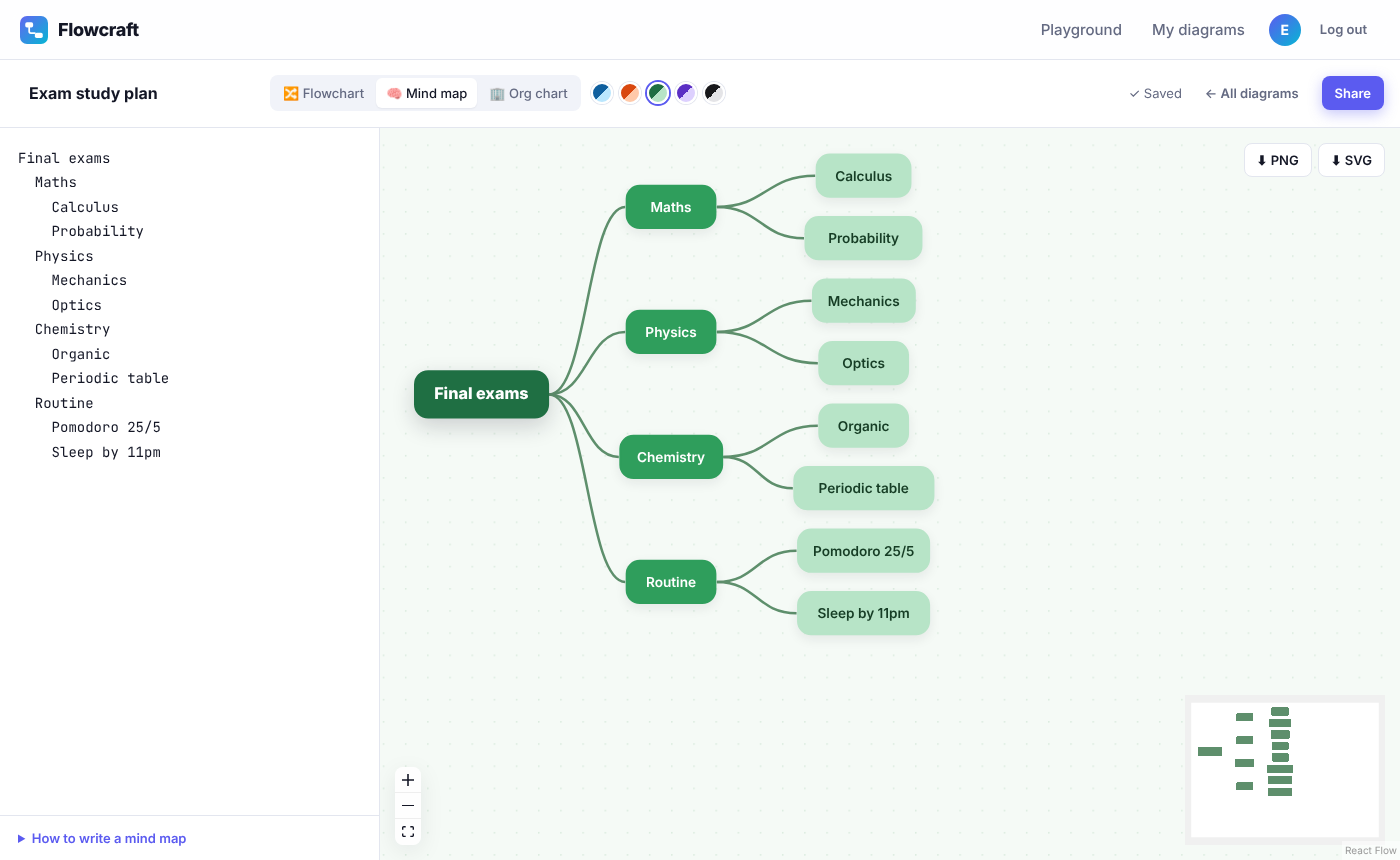
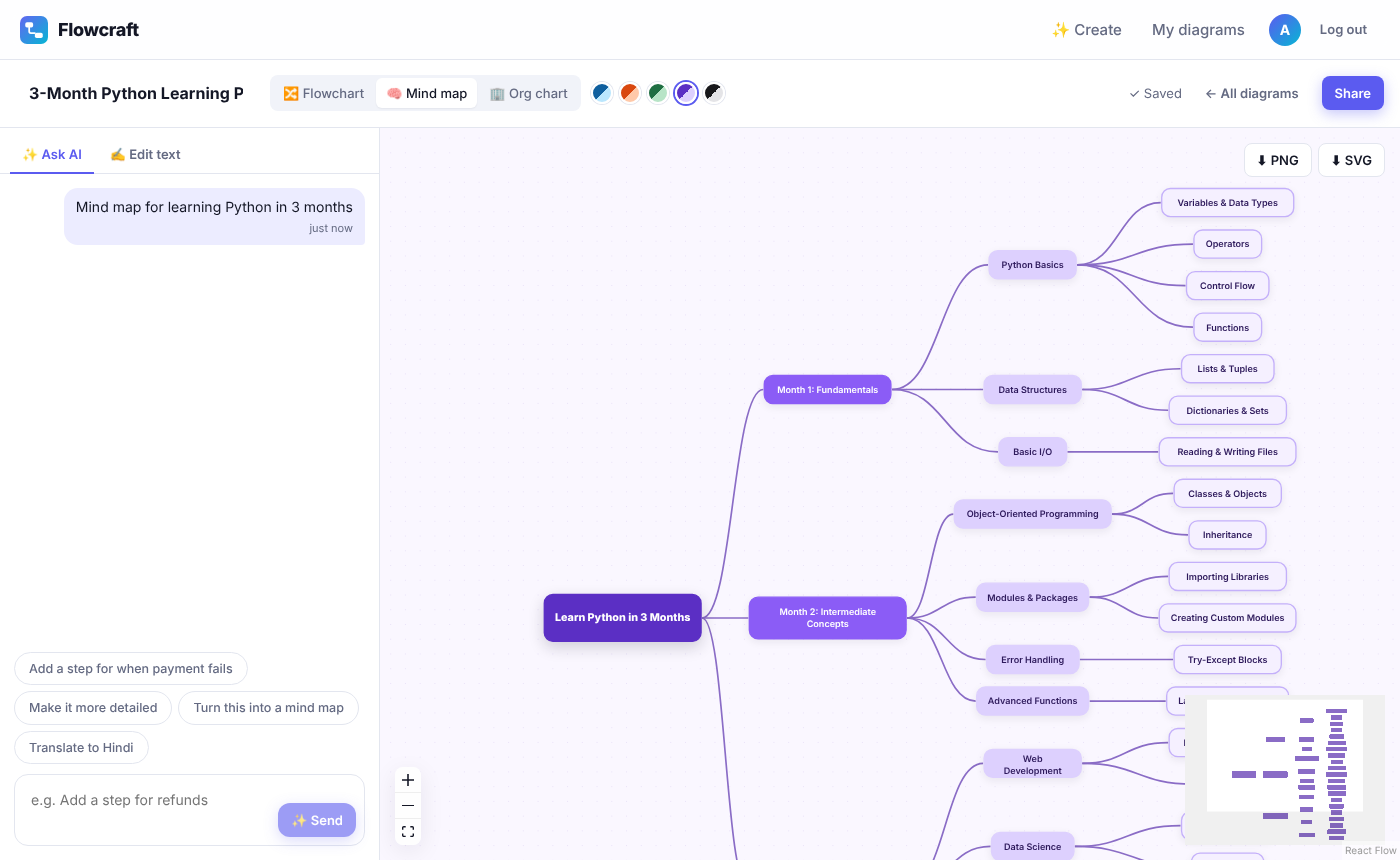
docs: document AI generation, Gemini setup and real-output fixes
Claude-Session: https://claude.ai/code/session_0188cAGwQ35mTrbCMrM6ajGW

diff --git a/README.md b/README.md
@@ -1,15 +1,14 @@
-# Flowcraft — type it, see it, share it
+# Flowcraft — describe it, get a diagram
 
-**Flowcraft turns plain text into clean flowcharts, mind maps and org charts.**
-Write a few lines like `Wake up -> Coffee -> Is it Monday?` or an indented list of ideas, and the diagram draws itself — with automatic layout, colour themes, drag-to-adjust, PNG/SVG export and shareable links.
+**Flowcraft is an AI diagram generator.** Describe what you want in plain words — *"How does online food delivery work?"*, *"Mind map for learning Python in 3 months"*, *"Org chart for a small restaurant"* — and Google Gemini draws a clean flowchart, mind map or org chart. Then refine it by chatting (*"add a step for refunds"*), drag boxes, change colours, share a link or download PNG/SVG.
 
-It is built for everyday people, not just developers: students making study maps, small teams documenting a process, families sketching a family tree.
+It is built for everyday people, not just developers: students making study maps, small teams documenting a process, families sketching a family tree. It works in any language Gemini supports (try a Hindi prompt).
 
-![Landing page with live demo](docs/screenshots/landing.png)
+![Landing page: describe your diagram](docs/screenshots/landing.png)
 
-| Mind map | Org chart |
+| AI chat + generated flowchart | Generated mind map |
 | --- | --- |
-| ![Mind map editor](docs/screenshots/mind-map.png) | ![Org chart editor](docs/screenshots/org-chart.png) |
+| ![AI editor](docs/screenshots/ai-editor.png) | ![Mind map editor](docs/screenshots/mind-map.png) |
 
 | Dashboard | Mobile |
 | --- | --- |
@@ -19,7 +18,14 @@ It is built for everyday people, not just developers: students making study maps
 
 ## Features
 
-**Diagram generation**
+**AI generation (Google Gemini)**
+- ✨ **Prompt → diagram:** the AI picks the best diagram type and writes it in Flowcraft's text syntax, which is then drawn with automatic layout
+- 💬 **Refine by chatting:** every follow-up message edits the current diagram (*"make it more detailed"*, *"turn this into a mind map"*, *"translate to Hindi"*)
+- ↶ **Undo** any AI change; the **prompt history is saved** with the diagram in MongoDB
+- 🛡 **Self-correcting output:** answers are schema-validated and syntax-checked (connected steps, single root, reachable flow); problems are sent back to the model for one automatic retry
+- 🔑 The API key stays on the server; per-IP rate limiting protects your quota; clear messages when the key is missing, invalid or rate-limited
+
+**Diagrams & editing**
 - ✍ **Text → diagram in real time** — three diagram types:
   - **Flowchart:** `A -> B -> C`, decisions are any step ending in `?` (drawn as ◇), `(Start)` makes a rounded start/end step, `Ready? -> Go: yes` labels an arrow
   - **Mind map:** an indented outline (pasted Markdown bullet lists work too)
@@ -48,6 +54,7 @@ It is built for everyday people, not just developers: students making study maps
 | --- | --- |
 | Database | **MongoDB** with **Mongoose** (schemas, indexes, `Map` fields, aggregation pipeline for stats) |
 | Backend | **Node.js** + **Express 5** REST API in **TypeScript**, **zod** validation, **JWT** + **bcrypt** auth, helmet, CORS, rate limiting |
+| AI | **Google Gemini** (`gemini-2.5-flash`) via REST in JSON mode with a response schema |
 | Frontend | **React 19** + **TypeScript** + **Vite**, React Router 7, **React Flow** (canvas), **dagre** (auto-layout), html-to-image (export) |
 | Testing | **Vitest** + **Supertest** + **mongodb-memory-server** (API), Vitest unit tests (parser & layout) |
 | Tooling | npm workspaces (monorepo), ESLint, Docker multi-stage build, docker-compose, GitHub Actions CI |
@@ -118,6 +125,10 @@ cp server/.env.example server/.env
 | `JWT_SECRET` | Secret used to sign login tokens (**required in production**) | dev-only fallback |
 | `JWT_EXPIRES_IN` | Token lifetime | `7d` |
 | `CLIENT_ORIGIN` | Allowed browser origin(s), comma-separated | `http://localhost:5173` |
+| `GEMINI_API_KEY` | Google Gemini key for AI generation — free at [aistudio.google.com/apikey](https://aistudio.google.com/apikey). Without it the app still works, just without AI. | – |
+| `GEMINI_MODEL` | Gemini model to use | `gemini-2.5-flash` |
+
+> 🔐 Never commit `server/.env` (it is git-ignored) and never put the key in client code — the browser only talks to your own API.
 
 ### 4. (Optional) add demo data
 ```bash
@@ -172,12 +183,14 @@ All responses are JSON. Errors look like `{ "error": { "message": "...", "detail
 | `GET` | `/api/diagrams/stats` | ✔ | Counts by type, shared count, total views (aggregation) |
 | `POST` | `/api/diagrams` | ✔ | Create a diagram |
 | `GET` | `/api/diagrams/:id` | ✔ | Get one of my diagrams |
-| `PATCH` | `/api/diagrams/:id` | ✔ | Update title / text / type / theme / direction / positions / starred |
+| `PATCH` | `/api/diagrams/:id` | ✔ | Update title / text / type / theme / direction / positions / prompt history / starred |
 | `DELETE` | `/api/diagrams/:id` | ✔ | Delete |
 | `POST` | `/api/diagrams/:id/duplicate` | ✔ | Duplicate |
 | `POST` | `/api/diagrams/:id/share` | ✔ | `{ isPublic }` — turn the public link on/off (link id is kept) |
 | `GET` | `/api/shared/:shareId` | – | Public read-only view (increments views) |
 | `POST` | `/api/shared/:shareId/fork` | ✔ | Copy a public diagram into my account |
+| `GET` | `/api/ai/status` | – | `{ enabled }` — whether a Gemini key is configured |
+| `POST` | `/api/ai/generate` | – | `{ prompt, current? }` → `{ diagram: { title, type, direction, source } }`. Pass `current: { type, source }` to edit an existing diagram. Rate-limited per IP. |
 | `GET` | `/api/health` | – | Health check |
 
 Security notes: passwords are hashed with bcrypt and never returned; other users' diagrams return **404** (not 403) so ids can't be probed; search input is regex-escaped; auth routes are rate-limited; request bodies are size-limited and validated with zod.
@@ -185,6 +198,14 @@ Security notes: passwords are hashed with bcrypt and never returned; other users
 ---
 
 ## Engineering notes — problems found and fixed
+
+**AI output (found by testing with the real Gemini API, not just mocks)**
+- **Unconnected boxes.** Gemini sometimes listed steps on their own lines without arrows. The validator now rejects steps that aren't connected, and the system prompt asks for connections explicitly.
+- **Whole diagram on one line.** Some answers contained the two characters `\n` instead of real line breaks. Output is now normalised before validation.
+- **Typos that split a flow.** In a Hindi answer the model wrote the same step two slightly different ways, so the chain broke in two. The validator now checks that every step is reachable from the first one and tells the model exactly which steps aren't, so the automatic retry can fix it.
+- **Over-strict validation.** A lone `(Customer opens app)` line only sets the start shape and is connected on the next line — that is valid, so the rule was relaxed to "connected somewhere" instead of "every line has an arrow".
+
+**App**
 
 - **Infinite render loop on the canvas.** A default prop `positions = {}` created a new object every render, which re-ran the layout memo, reset React Flow's node store, and triggered "Maximum update depth exceeded". Fixed by using a module-level constant and keeping the parent's inline `onNodeMove` callback out of the memo's dependencies (via a ref).
 - **"Ship it" and "Ship it?" merged into one node.** Node ids were slugs of the label, and the slug dropped the `?`. Caught by a layout unit test; question nodes now get their own id.
